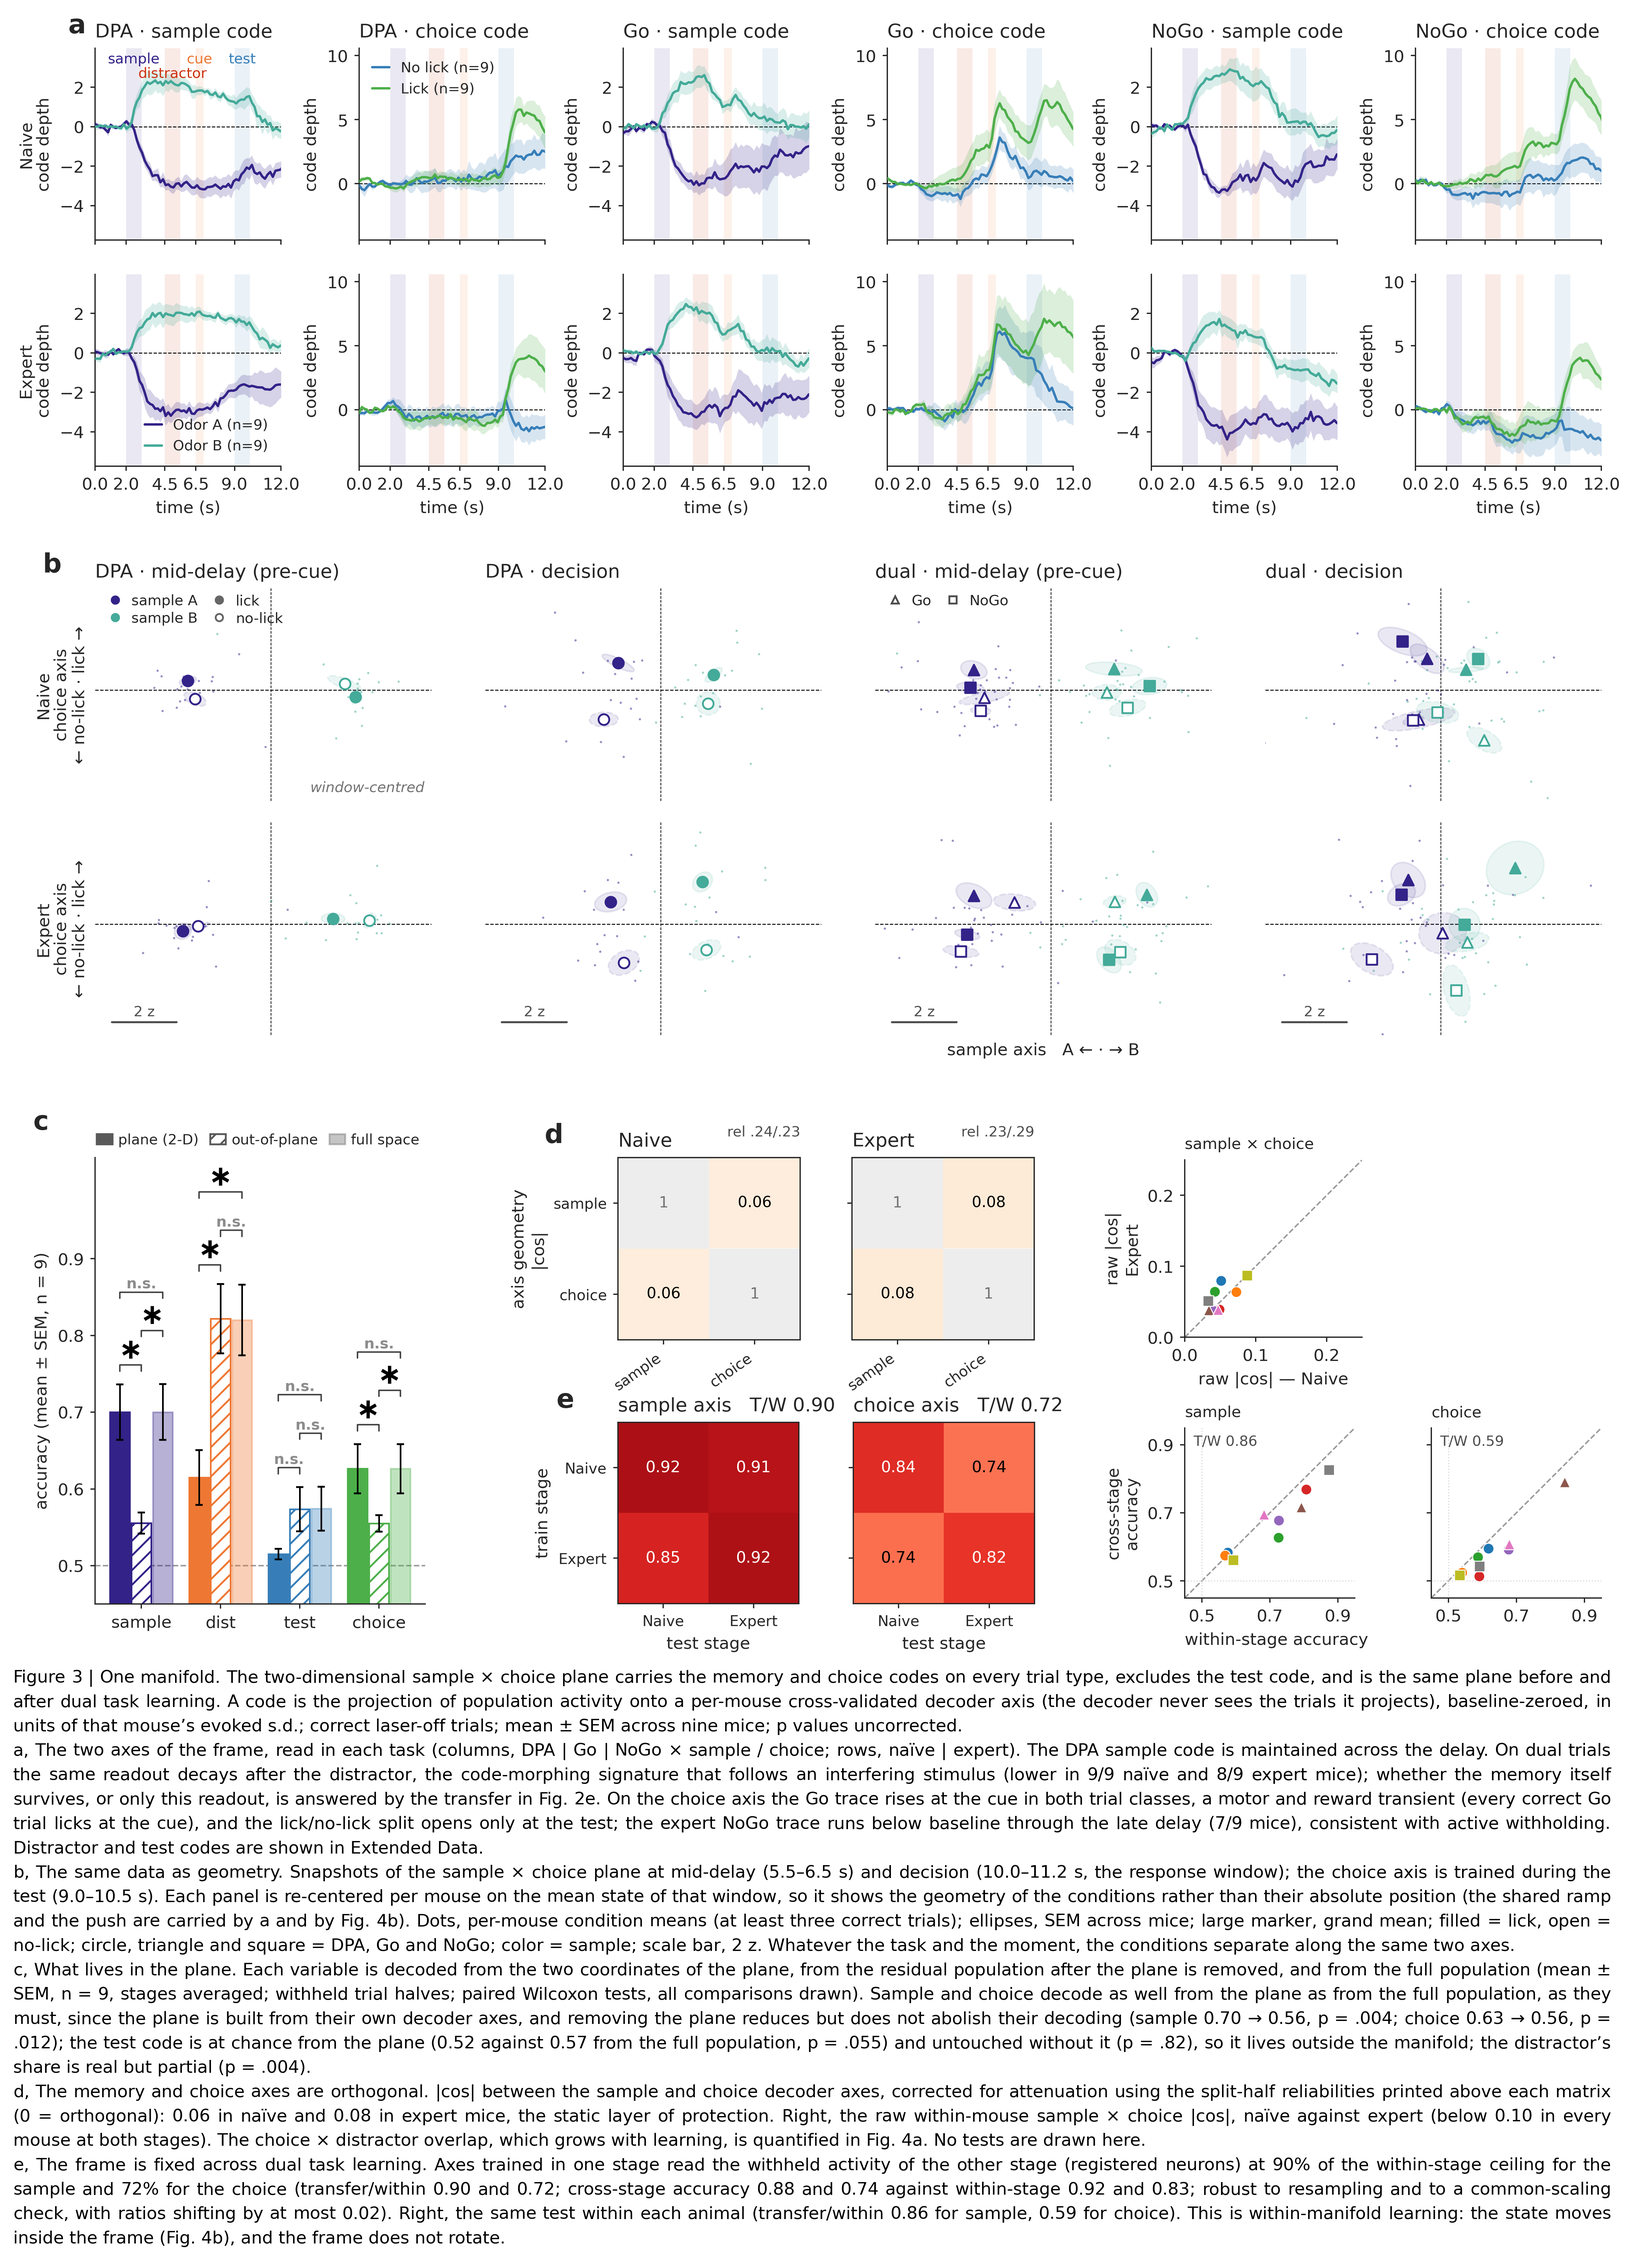
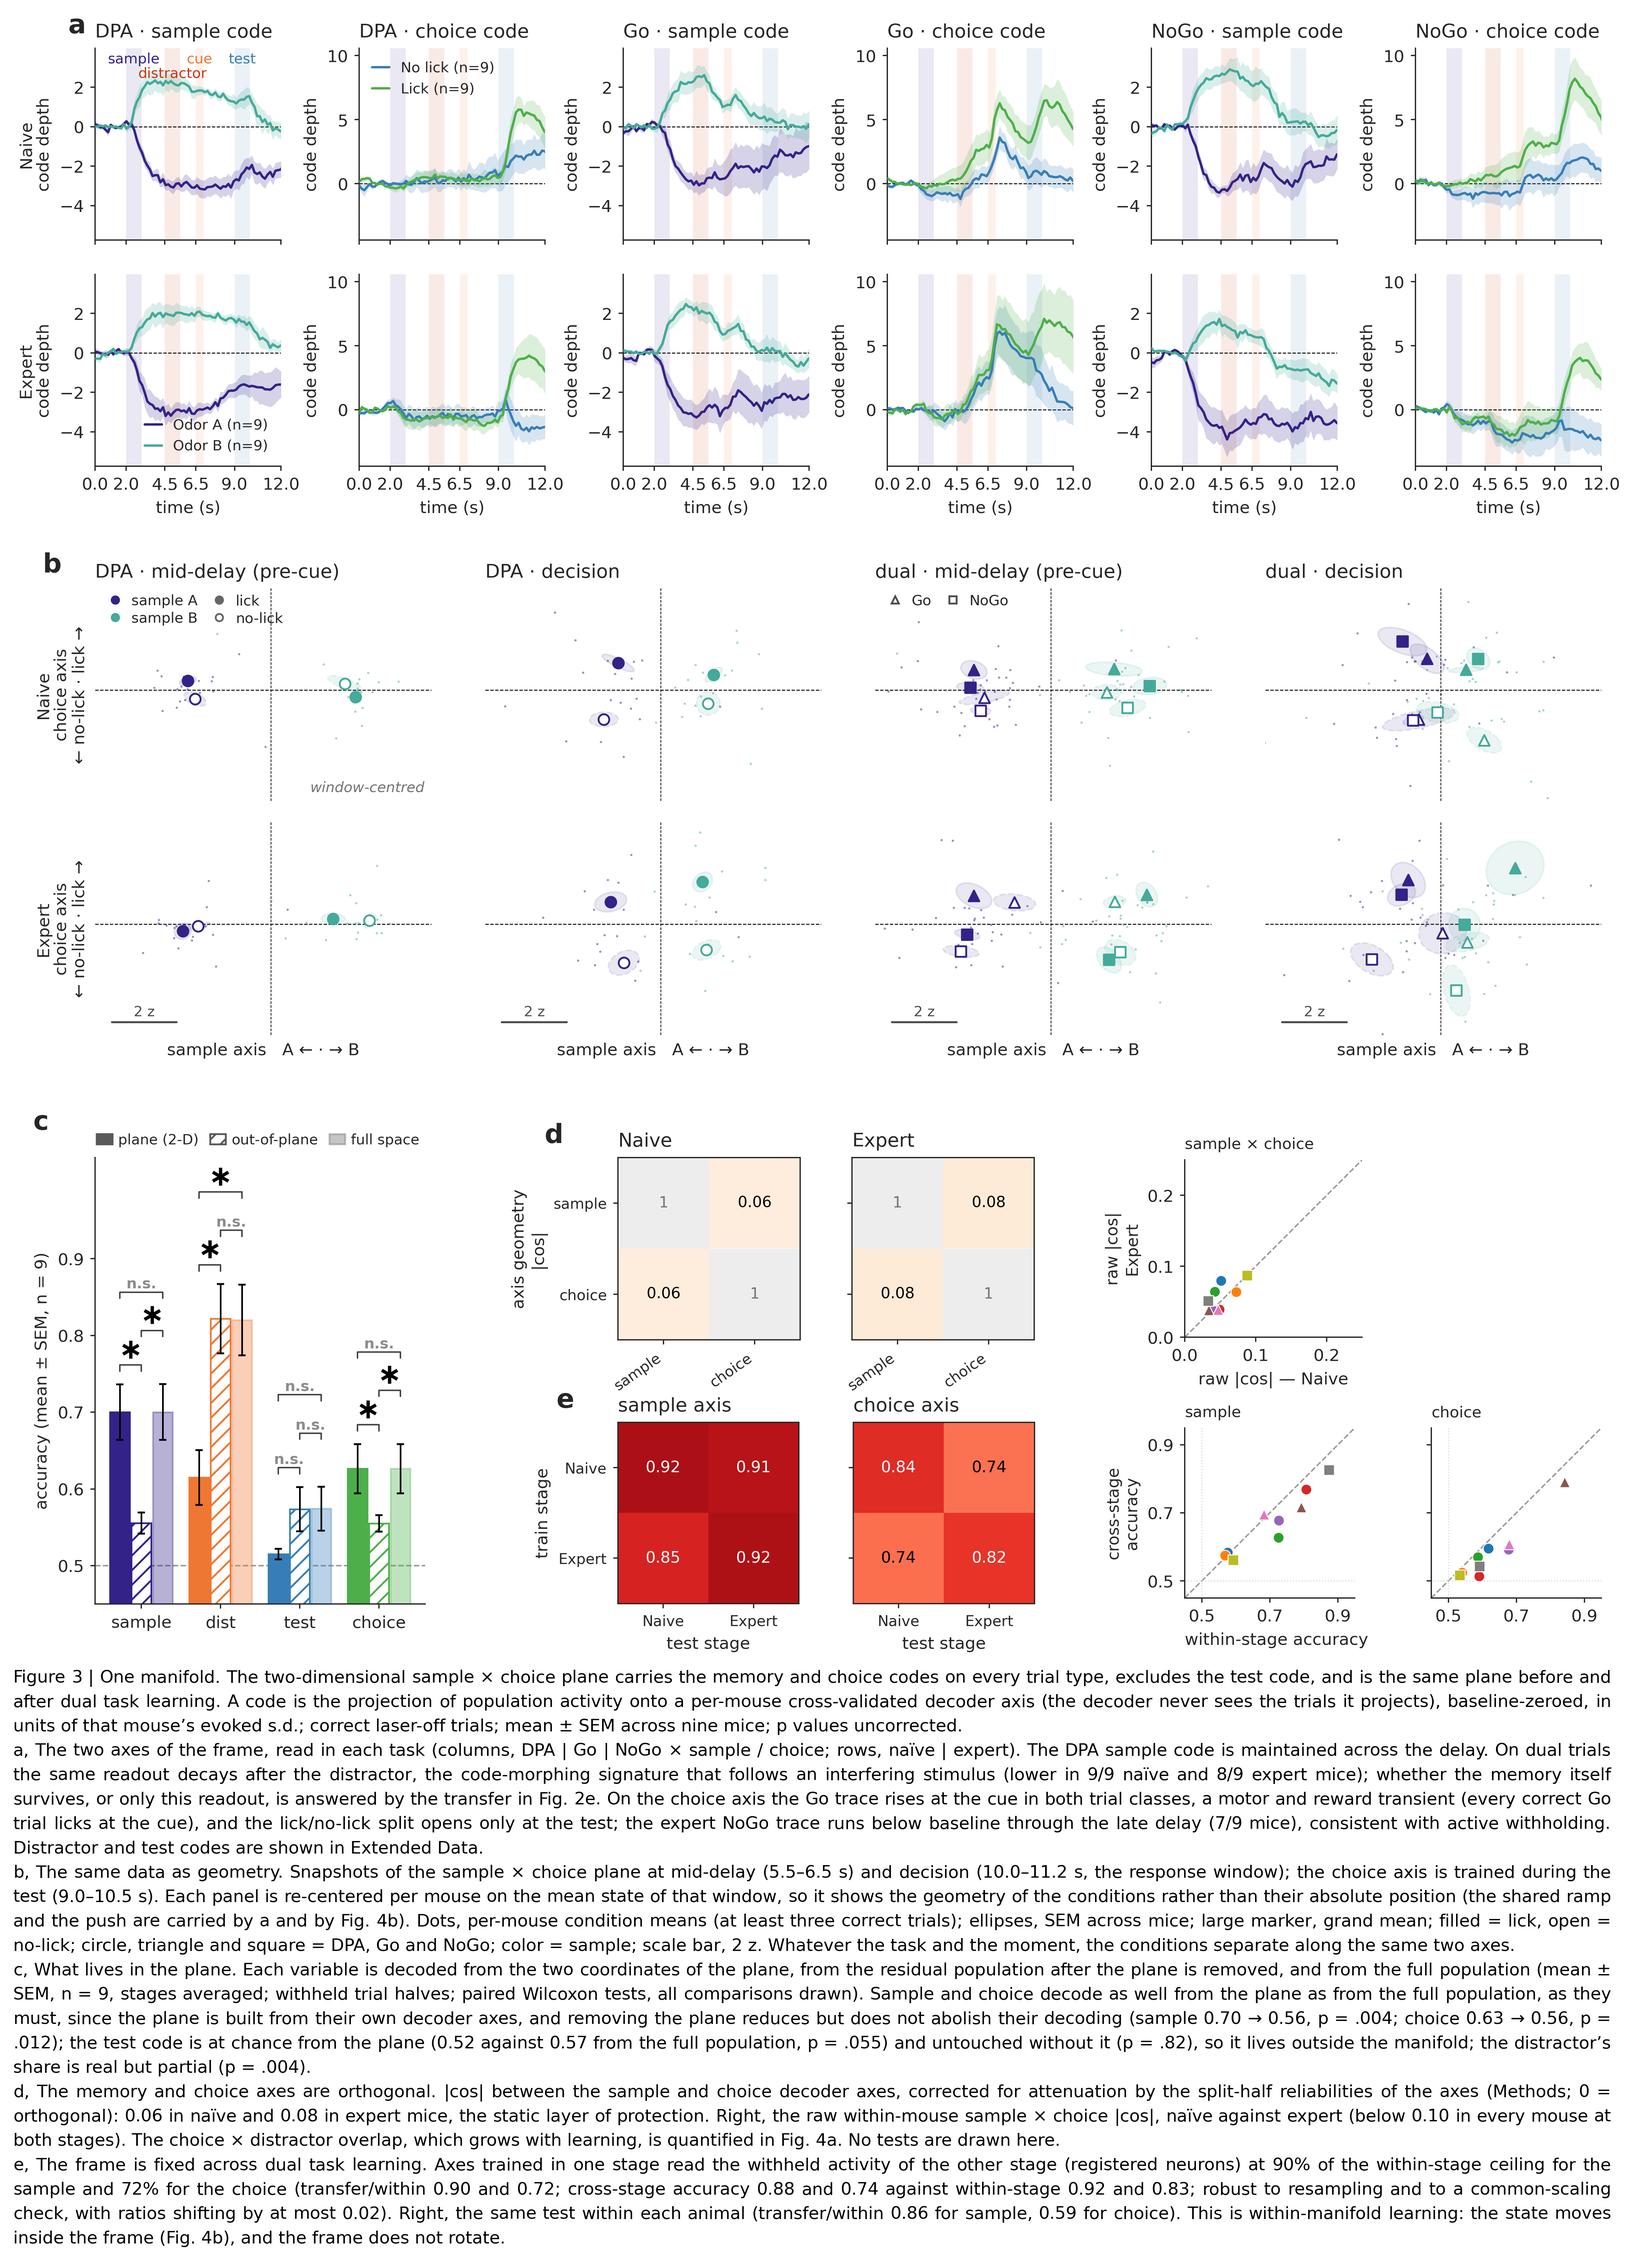
Fig 3: no rel/T-W annotations in panels d and e; sample-axis label under every expert panel of b
Leon's review of Fig 3: the reliabilities and transfer/within ratios stay in the legend and Methods,
not in the panels; panel b labels the sample axis under all four expert-row panels. Fig 3 legend d
reworded (reliabilities no longer printed above the matrices). Re-rendered, re-exported, share
pages republished.

Claude-Session: https://claude.ai/code/session_01PzGzWMKHPqqyp4poHedntF

Changed region(s): [[0.0, 0.9335, 0.716, 0.9646], [0.8094, 0.9024, 0.8405, 0.9335], [0.7471, 0.9024, 0.7782, 0.9335]]

diff --git a/pca/fig_manifold_main.py b/pca/fig_manifold_main.py
@@ -201,8 +201,7 @@ def panel_a(fig, gsA):
                 ax.plot([sx, sx + 2], [sy, sy], '-', color='0.3', lw=1.1)
                 ax.text(sx + 1.0, sy + 0.015 * (y1 - y0), '2 z', ha='center', va='bottom',
                         fontsize=PS*6.0, color='0.3')
-                if j == 2:                           # one shared x-label, centred under the grid
-                    ax.set_xlabel('sample axis   A ← · → B', fontsize=PS*7)
+                ax.set_xlabel('sample axis   A ← · → B', fontsize=PS*7)   # under every expert-row panel (Leon 2026-09-08)
             if j == 0:
                 yax = 'antic. action axis' if ANTACT else 'choice axis'
                 ax.set_ylabel(f'{stage}\n{yax}\n← no-lick · lick →', fontsize=PS*7)
@@ -335,9 +334,7 @@ def panel_b(fig, gsB):
             ax.set_ylabel('axis geometry\n|cos|', fontsize=PS*7)
         # the attenuation correction divides by sqrt(rel_i*rel_j) — disclose the reliabilities
         # (sample/choice sit at 0.23-0.39; only dist is comfortably high). Review 2026-08-31.
-        ax.text(1.0, 1.10, 'rel ' +                      # just above the stage title line
-                '/'.join(f'{r:.2f}'.lstrip('0') for r in np.asarray(AXF[stage]['rel'])[:2]),
-                transform=ax.transAxes, fontsize=PS*6.0, color='0.3', ha='right', va='bottom')
+        # (2026-09-08, Leon: no 'rel' annotation on the panel — the reliabilities are printed to stdout and stated in Methods)
         for sp in ax.spines.values():
             sp.set_visible(True)
         print(f'b: {stage} sample-action {C3[0,1]:.2f}  sample-distr {C3[0,2]:.2f}  '
@@ -375,7 +372,7 @@ def panel_xstage(fig, gsX):
         ax.set_xticks([0, 1]); ax.set_xticklabels(['Naive', 'Expert'], fontsize=PS*6.2)
         ax.set_yticks([0, 1])
         ax.set_yticklabels(['Naive', 'Expert'] if k == 0 else [], fontsize=PS*6.2)
-        ax.set_title(f'{vn} axis   T/W {(off - .5) / (dia - .5):.2f}', loc='left', fontsize=TITLE_FS)   # ratio in the title (2026-09-08)
+        ax.set_title(f'{vn} axis', loc='left', fontsize=TITLE_FS)   # T/W ratio stated in the legend, not the panel (Leon 2026-09-08)
         ax.set_anchor('C')                              # vertically centred with the scatters
         if k == 0:
             ax.set_ylabel('train stage', fontsize=PS*7)
@@ -447,8 +444,7 @@ def panel_f_pm(fig, gs):
         if k:
             ax.tick_params(labelleft=False)
         ax.set_title(vn, loc='left', fontsize=PS*6.5)
-        ax.text(0.05, 0.96, f'T/W {np.mean(rat):.2f}', transform=ax.transAxes, va='top',
-                ha='left', fontsize=PS*6.0, color='0.3')
+        # (2026-09-08, Leon: no T/W text on the per-mouse scatters — the ratio is in the legend)
         if k == 0:
             ax.set_ylabel('cross-stage\naccuracy', fontsize=PS*6.8)
             ax.set_xlabel('within-stage accuracy', fontsize=PS*7, loc='left')
@@ -660,7 +656,7 @@ CAP_PARAS = [
     'removing the plane reduces but does not abolish their decoding (sample 0.70 → 0.56, p = .004; '
     'choice 0.63 → 0.56, p = .012); the test code is at chance from the plane (0.52 against 0.57 from the full population, p = .055) and untouched without it (p = .82), so '
     'it lives outside the manifold; the distractor’s share is real but partial (p = .004).',
-    'd, The memory and choice axes are orthogonal. |cos| between the sample and choice decoder axes, corrected for attenuation using the split-half reliabilities printed above each matrix (0 = orthogonal): 0.06 in naïve and 0.08 in expert mice, the static layer of protection. Right, the raw within-mouse sample × choice |cos|, naïve against expert (below 0.10 in every mouse at both stages). The choice × distractor overlap, which grows with learning, is quantified in Fig. 4a. No tests are drawn here.',
+    'd, The memory and choice axes are orthogonal. |cos| between the sample and choice decoder axes, corrected for attenuation by the split-half reliabilities of the axes (Methods; 0 = orthogonal): 0.06 in naïve and 0.08 in expert mice, the static layer of protection. Right, the raw within-mouse sample × choice |cos|, naïve against expert (below 0.10 in every mouse at both stages). The choice × distractor overlap, which grows with learning, is quantified in Fig. 4a. No tests are drawn here.',
     'e, The frame is fixed across dual task learning. Axes trained in one stage read the withheld activity '
     'of the other stage (registered neurons) at 90% of the within-stage ceiling for the sample and 72% for the choice '
     '(transfer/within 0.90 and 0.72; cross-stage accuracy 0.88 and 0.74 against within-stage 0.92 and 0.83; '

diff --git a/docs/paper/results_draft.md b/docs/paper/results_draft.md
@@ -1168,8 +1168,7 @@ must, since the plane is built from their own decoder axes, and removing the pla
 outside the manifold; the distractor’s share is real but partial (p = .004).
 
 d, The memory and choice axes are orthogonal. |cos| between the sample and choice decoder axes,
-corrected for attenuation using the split-half reliabilities printed above each matrix (0 =
-orthogonal): 0.06 in naïve and 0.08 in expert mice, the static layer of protection. Right, the
+corrected for attenuation by the split-half reliabilities of the axes (Methods; 0 = orthogonal): 0.06 in naïve and 0.08 in expert mice, the static layer of protection. Right, the
 raw within-mouse sample × choice |cos|, naïve against expert (below 0.10 in every mouse at both stages). The choice × distractor overlap, which grows with learning, is quantified in Fig. 4a.
 No tests are drawn here.
 
